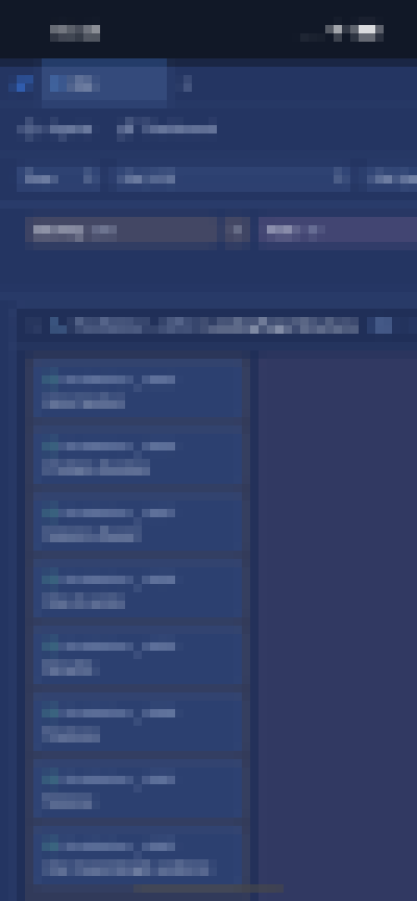
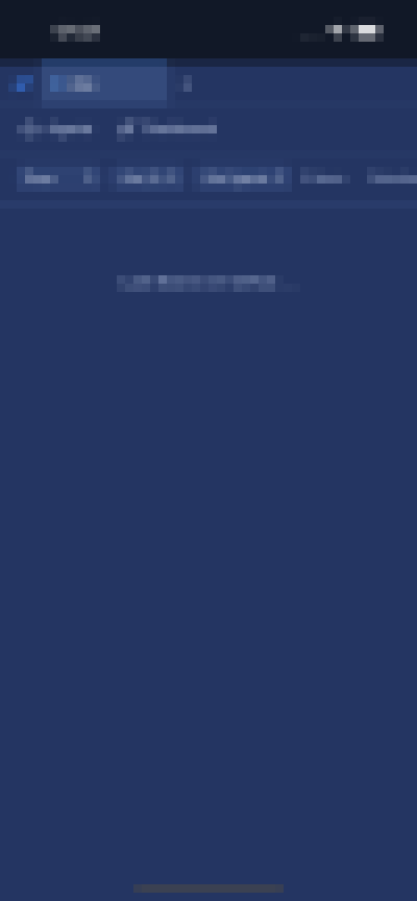
fix(ios): Pairing-Link nur nach Bestätigung, Host-Prüfung für lokale Anfragen
- Deep Link devorbit://pair wendet die Kopplung erst nach Rückfrage mit dem Host an;
  doppelt gelieferte Links (appUrlOpen + getLaunchUrl) werden ignoriert.
- Server-URL muss https sein, http nur für localhost.
- isLocalRequest verlangt zusätzlich einen Loopback-Host-Header: schließt DNS-Rebinding
  auf /api/remote/pairing und Proxys ohne Forward-Header aus.

Claude-Session: https://claude.ai/code/session_01D4z4TAdTauc9DmLHfwoN29

diff --git a/test/remoteAccess.test.js b/test/remoteAccess.test.js
@@ -2,7 +2,7 @@ import { describe, it, expect, beforeAll, afterAll, beforeEach, afterEach } from
 import fs from 'fs';
 import os from 'os';
 import path from 'path';
-import { createServer } from 'http';
+import { createServer, request } from 'http';
 import express from 'express';
 import cors from 'cors';
 import { WebSocketServer, WebSocket } from 'ws';
@@ -80,6 +80,22 @@ describe('remote access token', () => {
 
   it('lets a direct localhost request through without token', async () => {
     expect((await get('/api/ping')).status).toBe(200);
+  });
+
+  it('treats loopback with a foreign Host as remote (tailscale serve, DNS rebinding)', async () => {
+    const status = (host) =>
+      new Promise((resolve, reject) => {
+        const [hostname, port] = base.split(':');
+        request({ hostname, port, path: '/api/ping', headers: { Host: host } }, (res) => {
+          res.resume();
+          resolve(res.statusCode);
+        })
+          .on('error', reject)
+          .end();
+      });
+    expect(await status('mac.tail1.ts.net')).toBe(401);
+    expect(await status('evil.example:1234')).toBe(401);
+    expect(await status(`localhost:${base.split(':')[1]}`)).toBe(200);
   });
 
   it('changes nothing when remote access is off', async () => {

diff --git a/index.tsx b/index.tsx
@@ -23,14 +23,25 @@ if (!rootElement) {
 }
 
 // iOS app: deep links pair the device (devorbit://pair?…) or open a view (devorbit://open?path=…).
+let lastLink = '';
 function handleLink(link: string) {
+  // appUrlOpen and getLaunchUrl() can both deliver the same link
+  if (link === lastLink) return;
+  lastLink = link;
   const paired = parsePairingLink(link);
   // getLaunchUrl() repeats the launch link after the reload below; an unchanged pairing is a no-op.
   const changed = paired && (paired.url !== pairing?.url || paired.token !== pairing?.token);
-  if (paired && changed && !isRejectedToken(paired.token)) {
+  // Any app can open a devorbit:// link, so a pairing is only applied after the user confirms the host.
+  if (
+    paired &&
+    changed &&
+    !isRejectedToken(paired.token) &&
+    window.confirm(`Mit DevOrbit-Server ${new URL(paired.url).host} verbinden?`)
+  ) {
     savePairing(paired);
     window.location.hash = '#/agents';
-    window.location.reload();
+    // WKWebView drops a reload issued while the confirm alert is still closing
+    setTimeout(() => window.location.reload(), 300);
     return;
   }
   if (paired) return;

diff --git a/server/services/remoteAccess.js b/server/services/remoteAccess.js
@@ -27,9 +27,24 @@ const FORWARD_HEADERS = [
   'tailscale-user-login',
 ];
 
-/** Direct request from this machine, not relayed by a proxy on its behalf. */
+const LOCAL_HOSTS = new Set(['localhost', '127.0.0.1', '[::1]']);
+
+const hostName = (host) => {
+  try {
+    return new URL(`http://${host}`).hostname;
+  } catch {
+    return '';
+  }
+};
+
+/**
+ * Direct request from this machine, not relayed by a proxy on its behalf. The Host header must
+ * name loopback too: that rejects DNS rebinding (attacker domain resolving to 127.0.0.1) and
+ * proxies like `tailscale serve`, which keep the tailnet name as Host.
+ */
 export function isLocalRequest(req) {
   if (!LOOPBACK.has(req.socket?.remoteAddress)) return false;
+  if (!LOCAL_HOSTS.has(hostName(req.headers.host))) return false;
   return !FORWARD_HEADERS.some((h) => req.headers[h] !== undefined);
 }
 

diff --git a/utils/remoteClient.test.ts b/utils/remoteClient.test.ts
@@ -17,12 +17,14 @@ const PAIRING = { url: 'https://mac.tail1.ts.net', token: 'secret' };
 describe('normalizeServerUrl', () => {
   it('defaults to https and strips paths', () => {
     expect(normalizeServerUrl(' mac.tail1.ts.net/foo ')).toBe('https://mac.tail1.ts.net');
-    expect(normalizeServerUrl('http://100.64.0.1:3001')).toBe('http://100.64.0.1:3001');
+    expect(normalizeServerUrl('http://localhost:3001')).toBe('http://localhost:3001');
   });
   it('rejects empty and non-http input', () => {
     expect(normalizeServerUrl('')).toBeNull();
     expect(normalizeServerUrl('javascript:alert(1)')).toBeNull();
     expect(normalizeServerUrl('ftp://mac')).toBeNull();
+    // WKWebView blocks http from capacitor:// anyway; only the local dev server may use it
+    expect(normalizeServerUrl('http://100.64.0.1:3001')).toBeNull();
   });
 });
 

diff --git a/utils/remoteClient.ts b/utils/remoteClient.ts
@@ -20,7 +20,9 @@ export function normalizeServerUrl(input: string): string | null {
   if (!trimmed) return null;
   try {
     const url = new URL(/^[a-z]+:\/\//i.test(trimmed) ? trimmed : `https://${trimmed}`);
-    if (url.protocol !== 'https:' && url.protocol !== 'http:') return null;
+    // Plain http only to this device (simulator dev); anything else must be https.
+    const local = ['localhost', '127.0.0.1', '[::1]'].includes(url.hostname);
+    if (url.protocol !== 'https:' && !(url.protocol === 'http:' && local)) return null;
     return url.origin;
   } catch {
     return null;

diff --git a/ios/App/AppUITests/PairingFlowTests.swift b/ios/App/AppUITests/PairingFlowTests.swift
@@ -25,6 +25,11 @@ final class PairingFlowTests: XCTestCase {
         shot("01-pairing")
 
         open(env["PAIR_LINK"]!)
+        // The app asks before it pairs with the host named in the link.
+        let confirm = app.alerts.firstMatch
+        XCTAssertTrue(confirm.waitForExistence(timeout: 10))
+        shot("01b-confirm")
+        confirm.buttons["Ok"].tap()
         XCTAssertTrue(app.webViews.firstMatch.staticTexts["Agents"].waitForExistence(timeout: 20))
         sleep(4)
         shot("02-agents")
